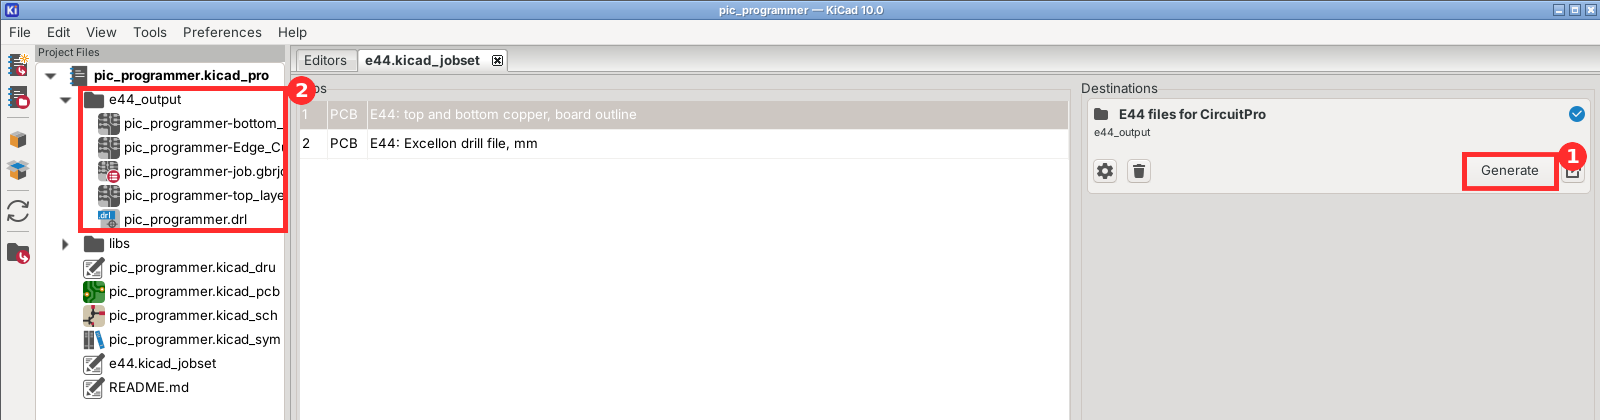
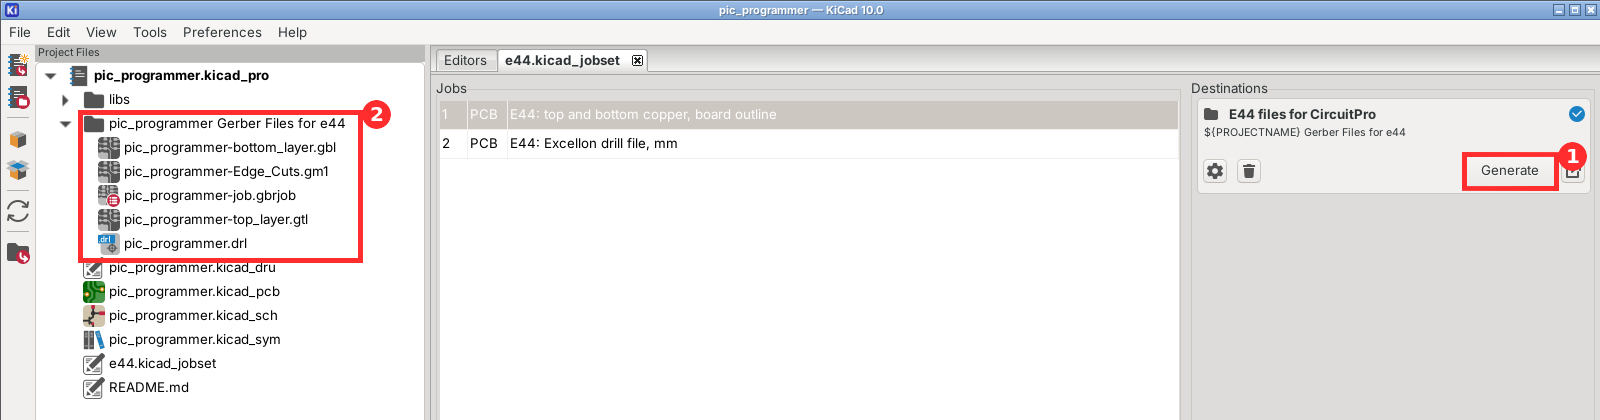
Name the E44 jobset output folder after the project
Output now goes to "${PROJECTNAME} Gerber Files for e44", e.g.
"pic_programmer Gerber Files for e44". Manual and screenshot updated.

Claude-Session: https://claude.ai/code/session_0121u3i9inFKCp1GSJQFnpBK

diff --git a/e44/manual/README.md b/e44/manual/README.md
@@ -736,10 +736,15 @@ Jobsets need KiCad 9 or later.
 ### 16.2 Generate the files
 
 The jobset opens in its own tab. Click **Generate** (1). The files appear in
-a new `e44_output` folder in the project (2), and the blue tick shows it
-worked:
+a new folder in the project called **`<project name> Gerber Files for e44`**
+(2), and the blue tick shows it worked. For pic_programmer that's
+`pic_programmer Gerber Files for e44`:
 
-![The E44 jobset tab after Generate: two jobs, and the e44_output folder with the files](images/export-2-generate.png)
+![The E44 jobset tab after Generate: two jobs, and the "pic_programmer Gerber Files for e44" folder with the files](images/export-2-generate.png)
+
+The folder name comes from the project's file name (`pic_programmer.kicad_pro`
+→ `pic_programmer`), so each project gets its own clearly named folder. This is
+the folder to take to the E44.
 
 | File | What it is | Use in CircuitPro |
 |---|---|---|
@@ -755,6 +760,10 @@ pic_programmer's are `top_layer.gtl` and `bottom_layer.gbl`.
 Re-run **Generate** whenever you change the board. It overwrites the old files.
 
 ### 16.3 What the jobset is set to
+
+**Output folder:** `${PROJECTNAME} Gerber Files for e44`. `${PROJECTNAME}` is a
+KiCad variable that becomes the project name. To change the folder name, click
+the gear button on the **E44 files for CircuitPro** destination.
 
 You don't need to change anything, but this is what it does. Double-click a
 job in the list to see or change its settings.
@@ -804,4 +813,4 @@ kicad-cli jobset run -f e44.kicad_jobset my_board.kicad_pro
 - [ ] Ground pour on spare area
 - [ ] As few vias and top-side joints as possible
 - [ ] DRC: 0 errors, 0 unconnected, schematic parity passes
-- [ ] Board saved, then exported with `e44.kicad_jobset` (4 files in `e44_output`)
+- [ ] Board saved, then exported with `e44.kicad_jobset` (files in `<project name> Gerber Files for e44`)
